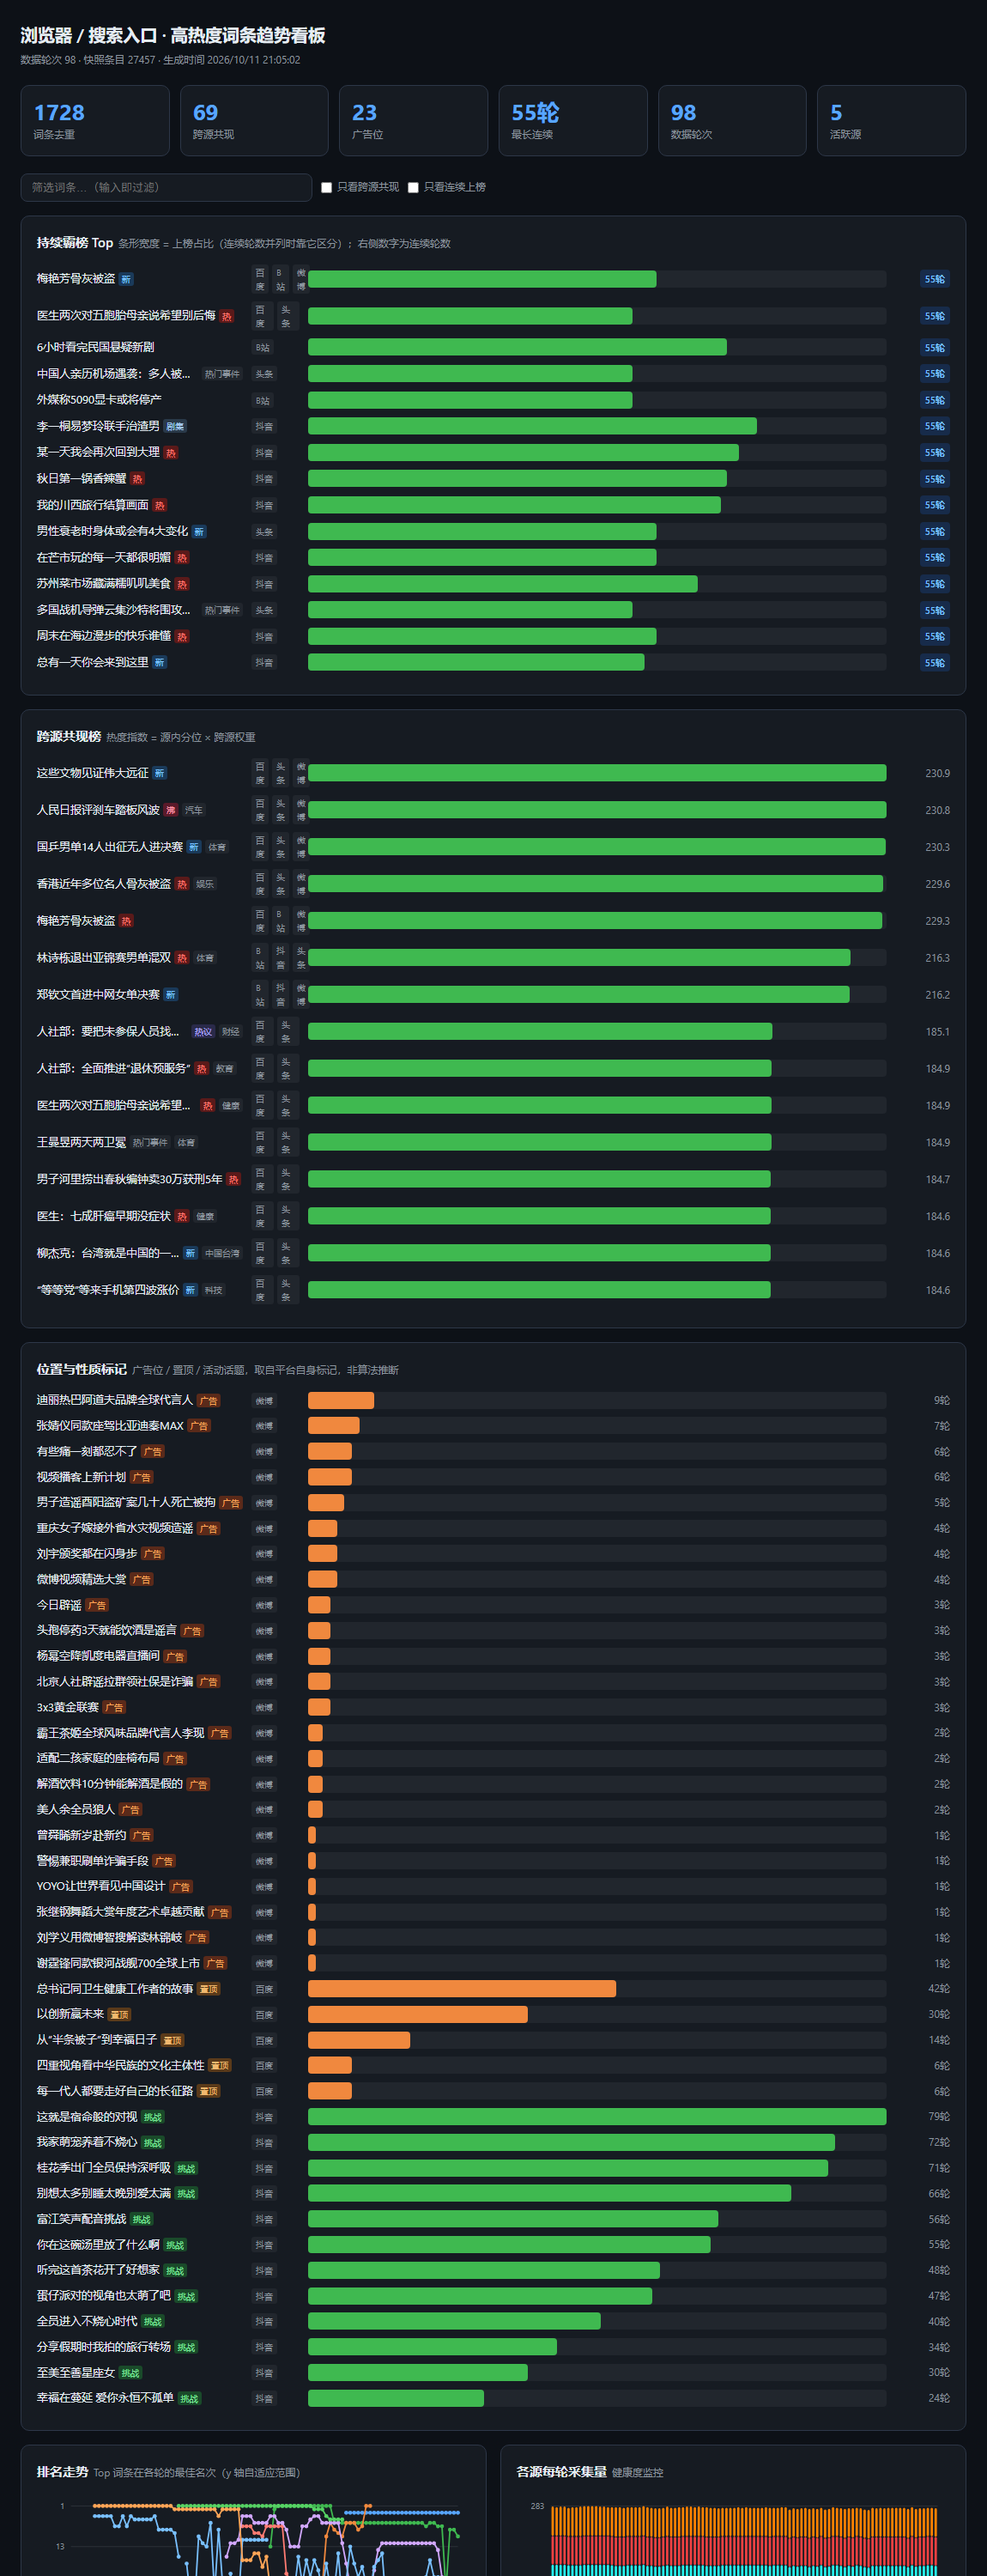
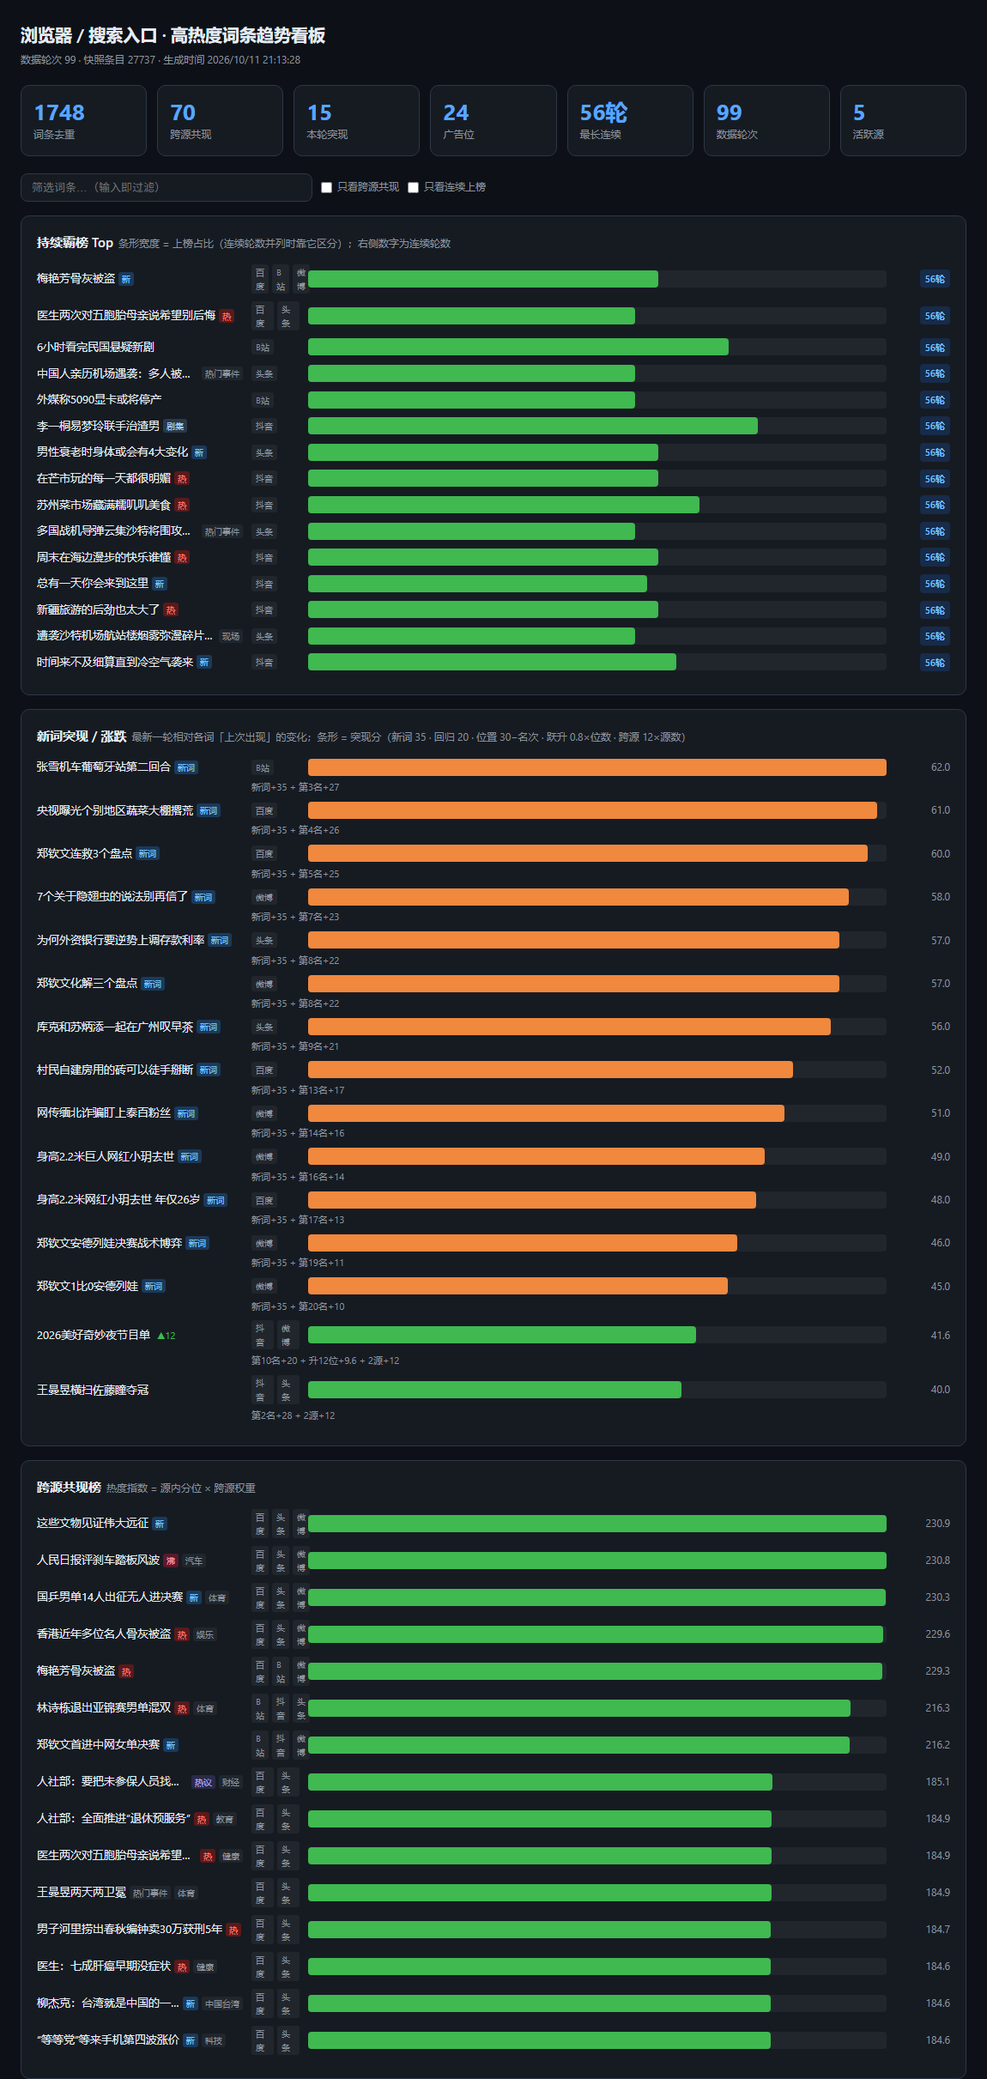
docs: 补突现分析与新看板视图，更新配图
README：
- 视角表从「三个」扩到「四个」，并说明为什么不能拿持续度反着看突现
  （持续度对新词天然不利，突现分也看不出长期钉子的特殊性）
- 新增「突现 / 涨跌」章节：权重表 + 真实 CLI 输出（中间行标明省略）
- 看板视图表补两张新卡片，并记下「None 必须断线」这条绘图约束
- 架构图补 emergence.py 与 trend 传 config 一事

USAGE：快速上手 / 命令表加 emergence，新增 3.3 小节并顺延后续编号，
视角表与 emergence_score 口径同步。

docs/dashboard.png 换成新版（含突现榜），并裁掉了下半部分 ——
整页 4800px 铺进 README 会缩到看不清，改为展示上半部分 + 文字说明其余视图。

diff --git a/README.md b/README.md
@@ -2,13 +2,16 @@
 
 按源配置声明式组织的热榜采集骨架。**V3**：
 5 个源（百度 4 榜 + B站 + 微博 + 抖音 + 头条）、**跨源共现**、
-**持续上榜追踪**、**趋势看板（含搜索筛选）**，实测 **280 条/轮、status=ok**。
+**持续上榜追踪**、**突现 / 涨跌检测**、**趋势看板（含搜索筛选）**，
+实测 **280 条/轮、status=ok**。
 
 参考 Scrapling 的能力边界设计，但**只用它的 `Fetcher`**（TLS 指纹 + 统一 API），
 不引入 StealthyFetcher / adaptive —— 本项目的源几乎全是 JSON 接口，
 反爬对抗与 DOM 自适应都用不上（详见"选型说明"）。
 
 ![趋势看板](docs/dashboard.png)
+
+<sub>看板上半部分：顶部统计 → 持续霸榜 → **新词突现 / 涨跌**（橙色为全新词，条形下方直接打印得分构成）。完整看板另有跨源共现、位置与性质标记、排名走势、突现词轨迹、各源采集量 5 个视图，`python -m hotwords trend` 生成。</sub>
 
 ---
 
@@ -21,7 +24,8 @@ pip install -r requirements.txt
 # 2. 常用命令
 python -m hotwords sources    # 列出已配置的源
 python -m hotwords once       # 跑一轮采集（自动更新持续追踪）
-python -m hotwords track      # 持续上榜榜（"真热度"核心）
+python -m hotwords track      # 持续上榜榜（"长期"，靠跨轮累加）
+python -m hotwords emergence  # 突现/涨跌榜（"此刻"，只看最新一轮相对上次）
 python -m hotwords cross      # 跨源共现榜（默认聚合全部轮次）
 python -m hotwords trend      # 生成趋势看板 dashboard.html（默认全量）
 python -m hotwords report     # 数据概览
@@ -29,10 +33,11 @@ python -m hotwords run        # 常驻调度：每 N 分钟跑一轮全量
 python -m hotwords retrack    # 从快照全量重建持续上榜数据
 python -m hotwords alerts     # 查看告警
 
-python tests/test_basic.py    # 11/11 通过
+python tests/test_basic.py    # 25/25 通过
 ```
 
 `cross` / `trend` 支持 `--last N` 只看最近 N 轮（默认 `0` = 全部）。
+`emergence` 支持 `--limit N`（默认 30）与 `--min-score X` 过滤低分噪声。
 
 Windows 下双击 `run.bat` 会出现交互菜单（选 1~6），
 也支持 `run.bat once / track / cross / trend / report / retrack / test`。
@@ -52,13 +57,22 @@ Windows 下双击 `run.bat` 会出现交互菜单（选 1~6），
 
 ---
 
-## 三个"热度"视角（别混淆）
+## 四个"热度"视角（别混淆）
 
 | 视角 | 问题 | 方法 | 抗噪性 |
 |---|---|---|---|
 | **单源排名** | 这个词在这个平台排第几 | 直接读 rank | ❌ 平台各自为政 |
 | **跨源共现** | 多个平台是否同时上榜 | 源内分位 × `1+log2(源数)` | ⚠ 单轮可能是巧合 |
 | **持续上榜** ⭐ | 是否**连续多轮**都在榜 | `persistence_score` | ✅ **最强信号** |
+| **突现 / 涨跌** | 此刻**什么正在爆发** | `emergence_score` | ✅ 抢新（看长尾用持续度） |
+
+前三者回答"这个词**长期**怎么样"，第四个回答"**此刻**发生了什么"。
+两套判据的输入相同（都是 snapshot），但一个看**历史长度**、一个看**瞬时变化**，
+所以 `analysis.py` 与 `emergence.py` 分开，互不借用对方的分数。
+
+**为什么不能用持续度反着看突现**：持续度对新词**天然不利** —— 刚上榜的词
+累加轮数少、覆盖度低，分数一定排在老词后面；而"什么正在爆发"恰恰要放大新词。
+反过来也一样：突现分只看这一轮，长期钉子（运营位）在它眼里毫无特殊性。
 
 **为什么持续度最强**：某词"刚好两源同时出现"可能是一次巧合，
 但**连续 5 轮都在榜**几乎不可能是噪声。
@@ -74,6 +88,57 @@ Windows 下双击 `run.bat` 会出现交互菜单（选 1~6），
   （否则"停一晚再挂"会被误算成连续，见坑 14）
 
 历史数据可用 `python -m hotwords retrack` 从快照全量重放重建。
+
+### 突现 / 涨跌（`emergence`）
+
+回答"**最新一轮里什么在爆发**"。只看**最后一轮**相对各词**上次出现**的变化，
+不做跨轮累加 —— 这是它与持续榜最大的区别。核心是三个可观测事实：
+
+1. 它是不是**刚出现**（全新 / 断档后回归）
+2. 它出现时**站在什么位置**（首秀即前 10 名，比首秀 45 名强得多）
+3. 它**同时在几个源**出现（跨源共现几乎不可能是巧合）
+
+`emergence_score` 刻意做成**可手算的线性加权**，不做黑盒：
+
+| 信号 | 加分 | 说明 |
+|---|---|---|
+| 新词 | **+35** | 历史首次出现 |
+| 断档后回归 | **+20** | 之前出现过，中间断了 ≥1 轮 |
+| 位置强度 | **+(30−rank)** | 仅 rank<30 计分，第 1 名 → +29 |
+| 名次跃升 | **+min(Δ,30)×0.8** | 仅当上轮也在榜且名次上升 |
+| 跨源广度 | **+12×(源数−1)** | 当轮同时在多个源出现 |
+
+取值范围 0 ~ 约 135。每条的**得分构成都会原样打印**，方便解释"为什么它排在前面"：
+
+```
+$ python -m hotwords emergence --limit 60
+共 99 轮数据，下面是最新一轮相对各词上次出现的突现 / 涨跌：
+
+（已排除运营位榜单: baidu_hot/movie, baidu_hot/novel, baidu_hot/teleplay）
+（已排除活动话题徽标: douyin_hot[9=挑战]）
+
+词条                        名次    上轮    断档    跃升    源   分       构成
+------------------------------------------------------------------------------------------------
+张雪机车葡萄牙站第二回合              3     —     新     —     1   62.0    新词+35 + 第3名+27
+央视曝光个别地区蔬菜大棚撂荒            4     —     新     —     1   61.0    新词+35 + 第4名+26
+郑钦文连救3个盘点                 5     —     新     —     1   60.0    新词+35 + 第5名+25
+            ……（中间 17 行同为全新词，略）……
+2026美好奇妙夜节目单              10    22     0    +12    2   41.6    第10名+20 + 升12位+9.6 + 2源+12
+王曼昱横扫佐藤瞳夺冠                2     2     0      0    2   40.0    第2名+28 + 2源+12
+人民日报评刹车踏板风波               6    10     0     +4    2   39.2    第6名+24 + 升4位+3.2 + 2源+12
+成都AG超玩会 vs 长沙TES.A KPL    2     12     0    +10    1   36.0    第2名+28 + 升10位+8.0
+珊子锐评时代峰峻                  17    20     1     +3    1   35.4    断1轮后回归+20 + 第17名+13 + 升3位+2.4
+```
+
+> `断档=新` 表示"从未出现过"，`上轮/跃升` 为空（`—`）同理 —— 全新词没有
+> "上轮"，就不该编一个 delta 出来。`断档=0` 则是"上轮也在榜"（连续）。
+>
+> 排除清单与持续榜**共用同一份**（`track_exclude` + `track_exclude_labels`）。
+> 口径必须一致：同一个库若两张榜排除的东西不同，用户会以为其中一张算错了。
+> `emergence` 与 `retrack` 都由同一个函数回显排除项，避免措辞漂移。
+
+**failed 轮不参与判定**：某轮采集失败时快照里没有任何词，若把它算进去，
+所有词都会被误判成"断档一轮"，回归加分凭空多出 +20。
 
 ### ⚠ 运营推广位必须排除（`track_exclude`）
 
@@ -200,10 +265,16 @@ track_exclude_labels: [9]     # douyin_hot
 | 视图 | 内容 |
 |---|---|
 | **持续霸榜 Top** | 条形宽度 = **上榜占比**（连续轮数并列时靠它区分），右侧数字为连续轮数，绿≥3轮 / 黄=2轮 / 蓝=1轮 |
+| **新词突现 / 涨跌** | 最新一轮的突现分榜；橙=全新 / 紫=断档回归 / 绿=连续在榜但窜升，条形下方直接打印得分构成 |
 | 跨源共现榜 | 绿=多源共现 / 蓝=单源 |
 | **位置与性质标记** | 广告位 / 置顶 / 活动话题单列（平台标记，非算法推断） |
-| 排名走势 | Top 词条各轮最佳名次折线 |
+| 排名走势 | 跨源 Top 词条各轮最佳名次折线 |
+| 突现词轨迹 | 突现词的近 20 轮名次折线（只画**有历史**的突现词，全新词无轨迹可画） |
 | 各源采集量 | 堆叠柱，健康度监控 |
+
+> 折线图里 `None`（该轮不在榜）**必须断开**，不能连成直线 ——
+> 否则会假造出"一直在榜"的错觉。排名走势与突现词轨迹共用同一个绘图函数，
+> 就是为了让这条断线语义只在一个地方实现。
 
 词条后面会挂**标记徽章**：`广告`（橙）/ `置顶`（金）是结构性事实，
 平台标签（`新`/`热`/`沸`/`爆`/`辟谣`…）与内容分类（`国际`/`财经`…）用低对比度，
@@ -230,11 +301,13 @@ track_exclude_labels: [9]     # douyin_hot
    ↓                    （徽标/分类枚举的中文名统一放 labels.py，避免各处各存一份）
 断言层   assertions.py   结构哨兵：条目数 / 必填字段 / 空词条
    ↓
-分析层   analysis.py     跨源共现 + 持续上榜追踪（增量更新）
+分析层   analysis.py     跨源共现 + 持续上榜追踪（增量更新，"长期"）
+         emergence.py    突现/涨跌（只看最新一轮相对上次，"此刻"）
+                         两者共用 _exclude_clause 与 config 里同一份排除清单
    ↓
 存储层   storage/        snapshot + word + word_track + alert + 指纹（6 张表）
    ↓
-展示层   render.py       趋势看板 HTML
+展示层   render.py       趋势看板 HTML（`trend` 传 config，保证与 CLI 口径一致）
    ↓
 告警层   notify.py       解析失效 / 字段漂移 -> 日志 / alert 表
 ```

diff --git a/docs/USAGE.md b/docs/USAGE.md
@@ -7,9 +7,10 @@
 ## 0. 一分钟上手
 
 ```bash
-python -m hotwords once     # 采集一轮（约 5 秒）
-python -m hotwords track    # 看持续上榜榜
-python -m hotwords trend    # 生成看板并打开
+python -m hotwords once       # 采集一轮（约 5 秒）
+python -m hotwords track      # 看持续上榜榜（"长期"）
+python -m hotwords emergence  # 看什么词正在爆发（"此刻"）
+python -m hotwords trend      # 生成看板并打开
 ```
 
 Windows 用户可直接双击 `run.bat`，会出现交互菜单（选 1~6）。
@@ -51,13 +52,15 @@ pip install -r requirements.txt
 |---|---|
 | `python -m hotwords sources` | 列出所有源的状态 |
 | `python -m hotwords once` | **跑一轮采集** |
-| `python -m hotwords track` | 持续上榜榜 |
+| `python -m hotwords track` | 持续上榜榜（长期，靠跨轮累加） |
+| `python -m hotwords emergence` | 突现 / 涨跌榜（此刻，只看最新一轮相对上次） |
 | `python -m hotwords cross` | 跨源共现榜 |
 | `python -m hotwords trend` | 生成看板 `dashboard.html` |
 | `python -m hotwords report` | 数据概览 |
 | `python -m hotwords alerts` | 查看告警 |
 | `python -m hotwords run` | 常驻调度 |
-| `python tests/test_basic.py` | 跑测试 |
+| `python -m hotwords retrack` | 从快照重建持续上榜数据（改排除清单后必跑） |
+| `python tests/test_basic.py` | 跑测试（25 项） |
 
 全局参数：`--db <路径>`（默认 `hotwords.db`）、`--config <路径>`、`-v`（详细日志）。
 
@@ -118,7 +121,38 @@ python -m hotwords track --limit 20 --min-streak 2
 | 源数 | 几个平台出现过，≥2 即跨源 |
 | **持续度** | 0~150 综合分 |
 
-### 3.3 看哪些词全网都在聊
+### 3.3 看什么词正在爆发
+
+```bash
+python -m hotwords emergence --limit 20
+```
+
+只看**最新一轮**相对各词**上次出现**的变化，专门找刚冒头的：
+
+```
+词条                        名次    上轮    断档    跃升    源   分       构成
+------------------------------------------------------------------------------------------------
+张雪机车葡萄牙站第二回合              3     —     新     —     1   62.0    新词+35 + 第3名+27
+            ……（中间 17 行同为全新词，略）……
+2026美好奇妙夜节目单              10    22     0    +12    2   41.6    第10名+20 + 升12位+9.6 + 2源+12
+王曼昱横扫佐藤瞳夺冠                2     2     0      0    2   40.0    第2名+28 + 2源+12
+```
+
+| 列 | 含义 |
+|---|---|
+| **名次** | 本轮最好名次（置顶 rank=0 不参与比较） |
+| 上轮 | 上次出现时的名次；`—` = 全新词 |
+| 断档 | 中间缺席几轮；`新` = 从未出现过，`0` = 连续在榜 |
+| 跃升 | 名次变化（`+` 为上升） |
+| **分** | 突现分（新词 35 / 回归 20 / 位置 `30−名次` / 跃升 `0.8×位数` / 跨源 `12×(源数−1)`） |
+| 构成 | 得分的逐项拆解，直接说明"为什么它排在前面" |
+
+**和 `track` 的分工**：`track` 找"长期稳定的真热度"，`emergence` 找"此刻的爆发"。
+持续度对新词天然不利，所以**不要**用 `track` 的下半部分去找新出现的词。
+
+`--min-score X` 可过滤掉低分噪声（例如 `--min-score 30` 只看强信号）。
+
+### 3.4 看哪些词全网都在聊
 
 ```bash
 python -m hotwords cross
@@ -127,17 +161,18 @@ python -m hotwords cross
 单个平台的榜单可能被运营干预，**多平台同时顶上去**说明是真实公共事件。
 热度指数单源满分 100，多源按 `1 + log2(源数)` 加成，所以 **>100 即跨平台**。
 
-### 3.4 看趋势图
+### 3.5 看趋势图
 
 ```bash
 python -m hotwords trend
 ```
 
-生成 `dashboard.html`（自包含、离线可用），含 4 个视图：
-持续霸榜 Top、跨源共现榜、排名走势折线、各源采集量堆叠柱。
+生成 `dashboard.html`（自包含、离线可用），含 7 个视图：
+持续霸榜 Top、新词突现 / 涨跌、跨源共现榜、位置与性质标记、
+排名走势折线、突现词轨迹、各源采集量堆叠柱。
 顶部有搜索框与筛选勾选。
 
-### 3.5 挂机采集
+### 3.6 挂机采集
 
 ```bash
 python -m hotwords run
@@ -225,15 +260,18 @@ def parse_newsite(payload: dict, source: str, category: str) -> ParseResult:
 
 ---
 
-## 6. 三个"热度"视角
+## 6. 四个"热度"视角
 
 | 视角 | 回答什么 | 抗噪性 |
 |---|---|---|
 | 单源排名 | 某平台排第几 | ❌ 各平台各自为政 |
 | 跨源共现 | 多平台是否同时上榜 | ⚠ 单轮可能是巧合 |
 | **持续上榜** | 是否连续多轮在榜 | ✅ 最强信号 |
+| **突现 / 涨跌** | 此刻是否正在爆发 | ✅ 抢新（看长尾用持续度） |
 
 一个词偶尔上榜可能是巧合，**连续多轮在榜**几乎不可能是噪声。
+反过来，一个词**刚出现就冲到前几名**，也几乎不可能是巧合 ——
+这是两个方向的问题，用两套判据。
 
 ### `persistence_score`（0~150）
 
@@ -243,6 +281,16 @@ def parse_newsite(payload: dict, source: str, category: str) -> ParseResult:
 
 每轮采集后**增量更新**：本轮上榜则 `total_rounds+1`；若上轮也在榜则 `streak+1`；
 本轮未上榜则 `streak` 归零（断档检测）。
+
+### `emergence_score`（0~约 135）
+
+```
+新词 +35 | 断档后回归 +20 | 位置 30−名次（名次<30 才计）
+名次跃升 0.8×位数（上限 30 位） | 跨源 12×(源数−1)
+```
+
+只看**最后一轮**，不做跨轮累加。排除清单与持续榜共用，
+`failed` 轮不参与判定（否则会把采集失败误算成"断档好几天"）。
 
 ---
 
